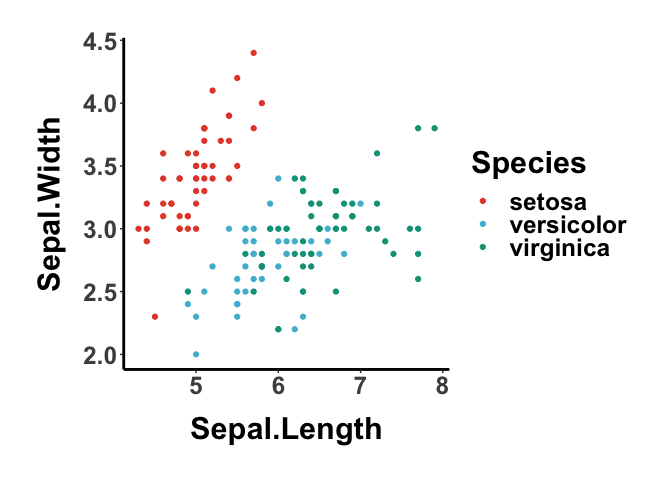
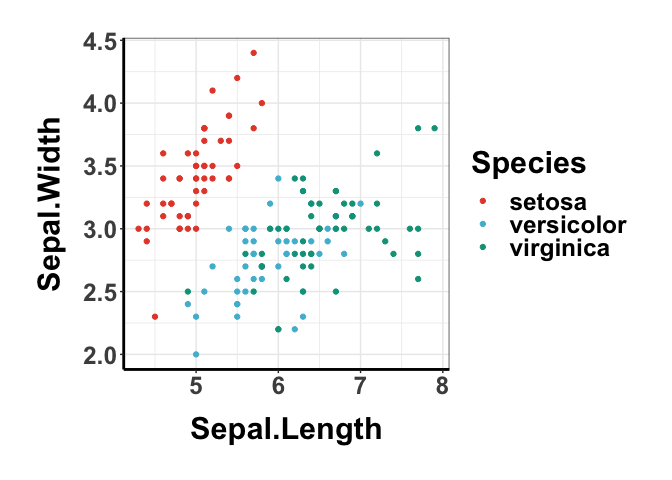
more ggplot-ism implementation of the theme functions

diff --git a/README.md b/README.md
@@ -2,12 +2,18 @@
 
 ### Functions
 
-  - `geUseTheme`: use a preset theme for plotting
+  - `geUseTheme`: use a preset theme for plotting (support `bw` or
+    `classic` at the moment)
   - `geGetColors`: get a vector of colors
 
 ### Aesthetics
 
   - `scale_color_ge`/`scale_fill_ge`: selected color scheme
+
+### Themes
+
+  - `theme_bw_ge`
+  - `theme_classic_ge`
 
 ### Installation
 
@@ -20,18 +26,29 @@ devtools::install_github("lch14forever/ggessentials")
 ``` r
 library(ggessentials)
 
-## preset the theme
-geUseTheme('classic')
 ## to get a list of colors (1-17)
 colors <- geGetColors(3)
 
 data("iris")
 ggplot(iris, aes(x=Sepal.Length, y=Sepal.Width, color=Species)) + 
     geom_point() +
-    scale_color_manual(values=colors)
+    scale_color_manual(values=colors) +
+    theme_bw_ge()
 ```
 
 ![](README_files/figure-gfm/usage-1.png)<!-- -->
+
+#### Set theme for the current session
+
+``` r
+## preset the theme
+geUseTheme('classic')
+ggplot(iris, aes(x=Sepal.Length, y=Sepal.Width, color=Species)) + 
+    geom_point() +
+    scale_color_manual(values=colors)
+```
+
+![](README_files/figure-gfm/unnamed-chunk-1-1.png)<!-- -->
 
 #### Disrete color scale with `scale_color_ge` or `scale_fill_ge`
 
